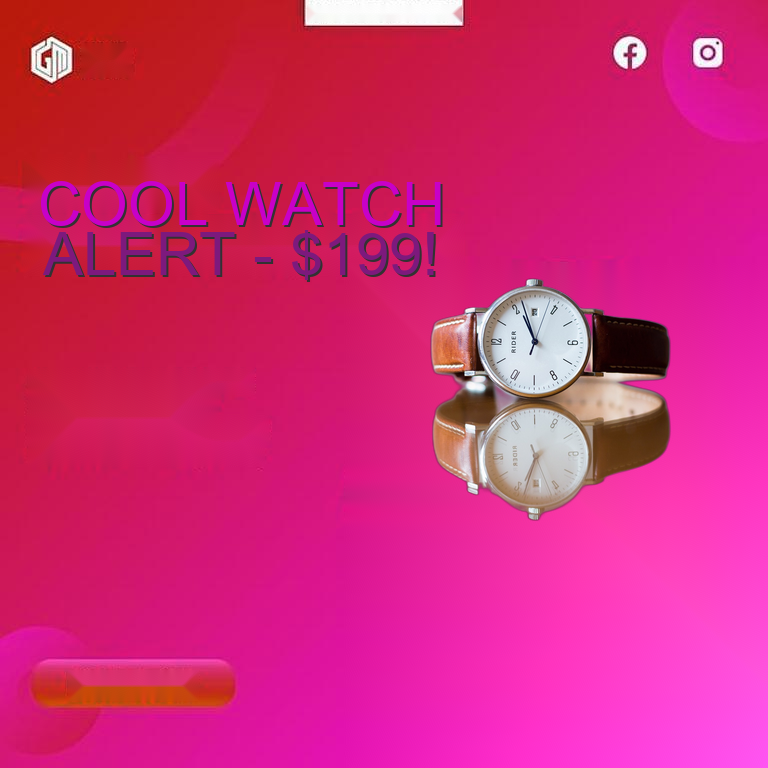
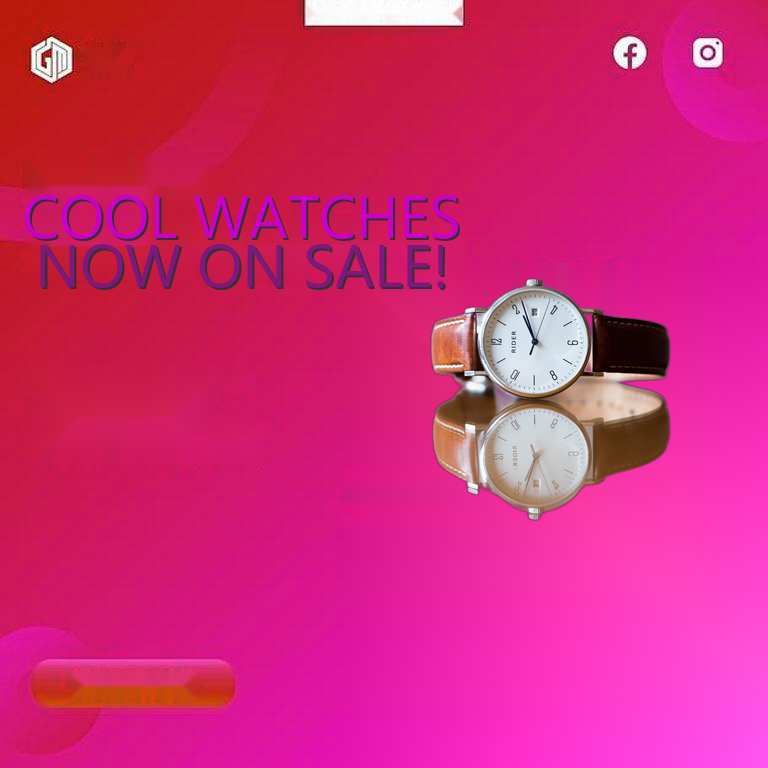
update

Changed region(s): [[0.0312, 0.2188, 0.5938, 0.375]]

diff --git a/image_utils.py b/image_utils.py
@@ -135,8 +135,37 @@
 
 from PIL import Image, ImageDraw, ImageFont
 
+import os
+import random
+from PIL import Image, ImageDraw, ImageFont
+import platform
+
+def get_random_font():
+    # Define the font directories for different operating systems
+    if platform.system() == "Windows":
+        font_dirs = [r'C:\Windows\Fonts']
+    elif platform.system() == "Darwin":  # macOS
+        font_dirs = ['/Library/Fonts', '/System/Library/Fonts', os.path.expanduser('~/Library/Fonts')]
+    elif platform.system() == "Linux":
+        font_dirs = ['/usr/share/fonts', '/usr/local/share/fonts', os.path.expanduser('~/.fonts')]
+    else:
+        return "serif.ttf"  # Default fallback font
+
+    fonts = []
+    
+    # Collect all TTF and OTF fonts from the defined directories
+    for font_dir in font_dirs:
+        if os.path.exists(font_dir):
+            for root, _, files in os.walk(font_dir):
+                for file in files:
+                    if file.endswith('.ttf') or file.endswith('.otf'):
+                        fonts.append(os.path.join(root, file))
+    
+    # Return a random font if available, otherwise return a default font
+    return random.choice(fonts) if fonts else "serif.ttf"
+
 def draw_multiline_text_in_bbox(image: Image.Image, text: str, bbox: tuple, 
-                                  font_path: str = "serif.ttf", 
+                                  font_path: str = None, 
                                   gradient_start: tuple = (200, 0, 200), 
                                   gradient_end: tuple = (50, 50, 50)) -> Image.Image:
     """
@@ -145,7 +174,7 @@ def draw_multiline_text_in_bbox(image: Image.Image, text: str, bbox: tuple,
         image (Image.Image): The image to draw on.
         text (str): The text to be drawn, which can contain line breaks.
         bbox (tuple): The bounding box as (left, upper, right, lower).
-        font_path (str): The path to the TTF font file to be used.
+        font_path (str): The path to the TTF font file to be used. If None, a random font is selected.
         gradient_start (tuple): The RGB color to start the gradient (default red).
         gradient_end (tuple): The RGB color to end the gradient (default blue).
     Returns:
@@ -159,6 +188,10 @@ def draw_multiline_text_in_bbox(image: Image.Image, text: str, bbox: tuple,
     bbox_height = lower - upper
     # Set initial font size
     font_size = bbox_height // 2  # Start with a reasonable size
+
+    # Get a random font if no specific font path is provided
+    if font_path is None:
+        font_path = get_random_font()
 
     # Load font
     try:
@@ -218,3 +251,4 @@ def draw_multiline_text_in_bbox(image: Image.Image, text: str, bbox: tuple,
         y += text_bbox[3] - text_bbox[1] + 5  # Move y position down for the next line
 
     return image
+
